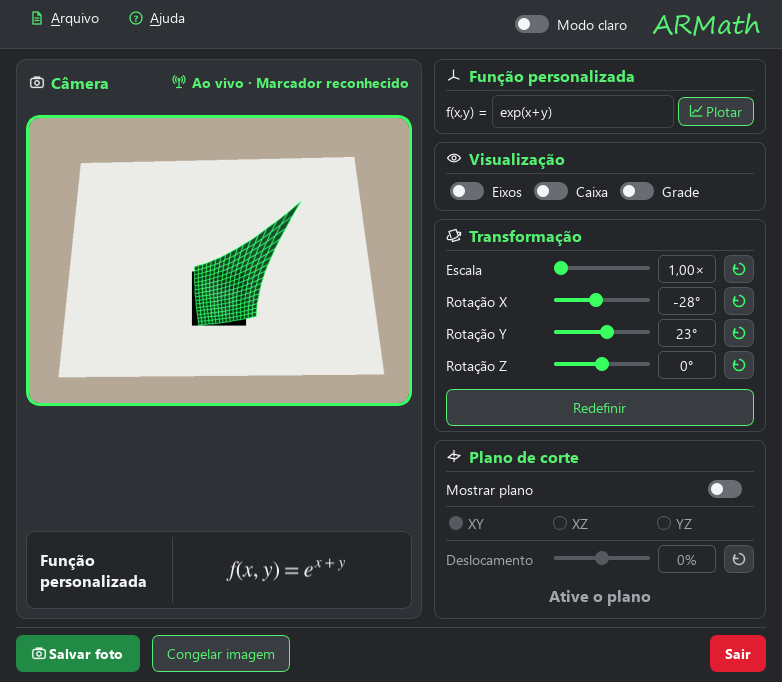
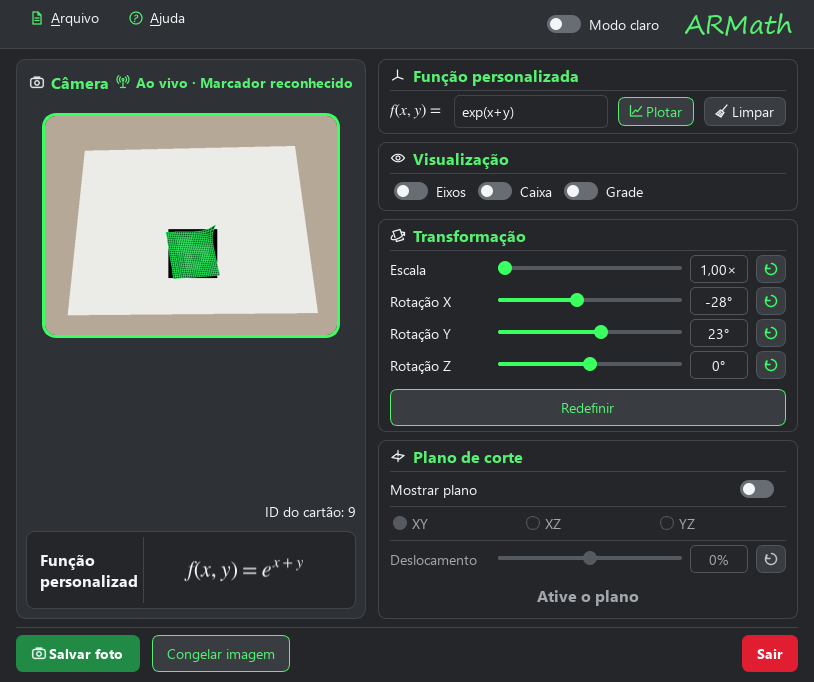
Documenta as melhorias atuais do ARMath 2.0

diff --git a/ARMAth_2.0/README.md b/ARMAth_2.0/README.md
@@ -1,6 +1,6 @@
 # ARMath 2.0
 
-O **ARMath** é um aplicativo de realidade aumentada para o ensino de **Cálculo III**, criado pelo Prof. Izaias Neri. A webcam reconhece um marcador ArUco e projeta uma superfície matemática sobre o vídeo. O nome e a equação da superfície aparecem abaixo da prévia.
+O **ARMath 2.0** é um aplicativo de realidade aumentada para o ensino de **Cálculo III**, criado pelo Prof. Izaias Neri. Ao reconhecer um cartão ArUco na webcam, o aplicativo projeta uma superfície tridimensional sobre o vídeo. Use os controles para girar a figura, relacioná-la à equação e observar sua interseção com planos.
 
 ## Como começar
 
@@ -15,17 +15,23 @@ Mostre um [marcador ArUco](marcadores) inteiro à webcam, com a margem branca vi
 
 Para gerar os arquivos PNG novamente, execute `python armath.py --gerar-marcadores marcadores`.
 
-## Telas e funcionalidades
+## Interface e recursos
 
 As imagens abaixo são capturas da interface do aplicativo com quadros simulados da câmera.
 
+À esquerda, a prévia mostra o vídeo e a superfície projetada. O **ID do cartão** ativo fica alinhado à direita, entre o vídeo e a área que mostra o nome e a equação da superfície. Enquanto não há um marcador reconhecido, o campo do ID exibe um traço. À direita, os painéis **Função personalizada**, **Visualização**, **Transformação** e **Plano de corte** ficam na mesma coluna. O status da webcam aparece à direita do título **Câmera**.
+
 ### Função personalizada
 
-No painel **Função personalizada**, escreva a expressão depois de **f(x,y) =** e clique em **Plotar** ou pressione **Enter**. Aponte a câmera para o marcador 9 para ver a superfície e a fórmula renderizada abaixo da imagem. A função inicial é `x+y`. Cada expressão válida substitui a anterior durante a sessão. Se houver um erro, a última função válida permanece.
+1. Digite a expressão à direita do rótulo matemático **f(x,y) =**.
+2. Clique em **Plotar** ou pressione **Enter**. Use o **marcador 9** para visualizar a superfície e a fórmula renderizada em LaTeX.
+3. Clique em **Limpar**, identificado pelo ícone de vassoura, para apagar o campo e voltar a digitar. O gráfico e a fórmula exibidos permanecem até a próxima plotagem válida.
 
-Exemplos: `exp(x+y)`, `x^2-y^2` e `sqrt(x^2+y^2)`. Use `*` para multiplicar. O marcador 9 usa o domínio ([-5,5] × [-5,5]). A malha é reduzida para a visualização, e a grade e os cortes indicam as coordenadas matemáticas.
+A expressão inicial é `x+y`. A função personalizada vale durante a sessão, e uma expressão inválida preserva a última superfície válida.
 
-![Função exponencial no marcador 9, com a equação formatada abaixo da câmera](docs/imagens/armath-2-funcao-personalizada.png)
+Experimente `exp(x+y)`, `x^2-y^2` ou `sqrt(x^2+y^2)`. Use `*` para multiplicar e `^` ou `**` para potências. O marcador 9 avalia a função em uma malha no domínio **[−5, 5] × [−5, 5]**. O aplicativo reduz a malha para a exibição, enquanto a grade e os cortes indicam as coordenadas matemáticas.
+
+![Marcador 9 com função exponencial, equação renderizada e botões Plotar e Limpar](docs/imagens/armath-2-funcao-personalizada.png)
 
 ### Visualização e transformação
 
@@ -48,7 +54,7 @@ Exemplos: `exp(x+y)`, `x^2-y^2` e `sqrt(x^2+y^2)`. Use `*` para multiplicar. O m
 
 ### Plano de corte
 
-Ative **Mostrar plano** e selecione **XY**, **XZ** ou **YZ**. As opções e o controle de **Deslocamento** ficam visíveis mesmo quando o plano está desligado. Quando ativo, o painel exibe a coordenada do corte no eixo perpendicular ao plano. A curva de interseção aparece em branco quando há corte.
+Ative **Mostrar plano** e selecione **XY**, **XZ** ou **YZ**. As opções e o controle de **Deslocamento** ficam visíveis e desativados enquanto o plano está desligado. Quando ativo, o painel exibe a coordenada do corte no eixo perpendicular, como **x = 0** para YZ. A interseção aparece em branco quando o plano corta a superfície.
 
 ![Corte da sela com o plano XY e a coordenada Z indicada no painel](docs/imagens/armath-2-escuro.png)
 
